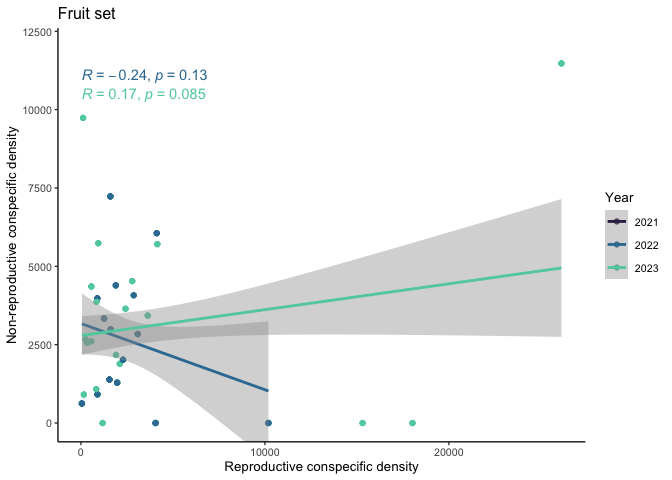
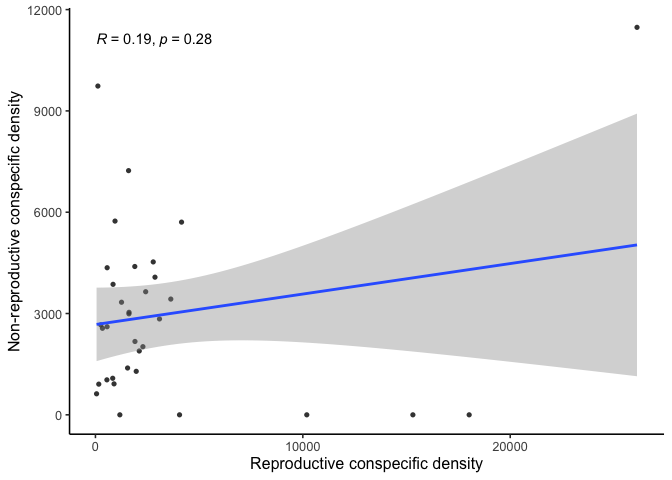
only one plot!

Changed region(s): [[0.0, 0.0, 1.0, 1.0], [0.2188, 0.4688, 0.25, 0.5312], [0.8125, 0.125, 0.8438, 0.1562]]

diff --git a/code/exploration/2024-02-16_density-pairs.md b/code/exploration/2024-02-16_density-pairs.md
@@ -8,90 +8,21 @@ library("tidyverse")
 library("here")
 library("ggpubr")
 library("patchwork")
-
-pal <- viridisLite::viridis(n = 3, begin = 0.2, end = 0.8, option = "mako")
-names(pal) <- c("2021", "2022", "2023")
 ```
 
 ``` r
-readRDS(here::here("data", "clean", "fruit_set_data.rds")) %>%
-  ggplot(aes(x = repro_connectivity, y = non_repro_connectivity,
-             colour = year)) +
-  geom_point(show.legend = TRUE) +
-  ggpubr::stat_cor(show.legend = FALSE) +
-  geom_smooth(method = "lm",show.legend = TRUE) +
-  scale_colour_manual(values = pal, drop = FALSE,
-                      limits = names(pal)) +
-  labs(title = "Fruit set",
+readRDS(here::here("data", "clean", "connectivity_data.rds")) %>%
+  filter(plot %% 1 == 0) %>%  
+  ggplot(aes(x = repro_connectivity, y = non_repro_connectivity)) +
+  geom_point(shape = 16, alpha = 0.8) +
+  ggpubr::stat_cor() +
+  geom_smooth(method = "lm") +
+  labs(
        x = "Reproductive conspecific density", 
        y = "Non-reproductive conspecific density") +
-  guides(colour = guide_legend("Year")) +
-  coord_cartesian(ylim = c(0, 12000)) -> p1
-
-p1
+  theme_classic(base_size = 12)
 ```
 
     ## `geom_smooth()` using formula = 'y ~ x'
 
 ![](figures/2024-02-16_density-pairs/unnamed-chunk-1-1.png)<!-- -->
-
-``` r
-readRDS(here::here("data", "clean", "fruit_drop_early.rds")) %>%
-  ggplot(aes(x = repro_connectivity, y = non_repro_connectivity,
-             colour = year)) +
-  geom_point(show.legend = TRUE) +
-  ggpubr::stat_cor(show.legend = FALSE) +
-  geom_smooth(method = "lm",show.legend = TRUE) +
-  scale_colour_manual(values = pal, drop = FALSE,
-                      limits = names(pal)) +
-  labs(title = "Early fruit drop",
-       x = "Reproductive conspecific density", 
-       y = "Non-reproductive conspecific density") +
-  guides(colour = guide_legend("Year")) +
-  coord_cartesian(ylim = c(0, 12000)) -> p2
-
-p2
-```
-
-    ## `geom_smooth()` using formula = 'y ~ x'
-
-![](figures/2024-02-16_density-pairs/unnamed-chunk-2-1.png)<!-- -->
-
-``` r
-readRDS(here::here("data", "clean", "fruit_drop_late.rds")) %>%
-  ggplot(aes(x = repro_connectivity, y = non_repro_connectivity,
-             colour = year)) +
-  geom_point(show.legend = TRUE) +
-  ggpubr::stat_cor(show.legend = FALSE) +
-  geom_smooth(method = "lm",show.legend = TRUE) +
-  scale_colour_manual(values = pal, drop = FALSE,
-                      limits = names(pal)) +
-  labs(title = "Late fruit drop",
-       x = "Reproductive conspecific density", 
-       y = "Non-reproductive conspecific density") +
-  guides(colour = guide_legend("Year")) +
-  coord_cartesian(ylim = c(0, 12000)) -> p3
-
-p3
-```
-
-    ## `geom_smooth()` using formula = 'y ~ x'
-
-![](figures/2024-02-16_density-pairs/unnamed-chunk-3-1.png)<!-- -->
-
-Correlation coefficients of less than 0.2 are usually classed as “very
-weak to no correlation”.
-
-``` r
-p1 + p2 + p3 +
-  plot_layout(guides = "collect") &
-  theme_classic(base_size = 15) &
-  theme(legend.position = "right",
-        legend.justification = "top") 
-```
-
-    ## `geom_smooth()` using formula = 'y ~ x'
-    ## `geom_smooth()` using formula = 'y ~ x'
-    ## `geom_smooth()` using formula = 'y ~ x'
-
-![](figures/2024-02-16_density-pairs/unnamed-chunk-4-1.png)<!-- -->
